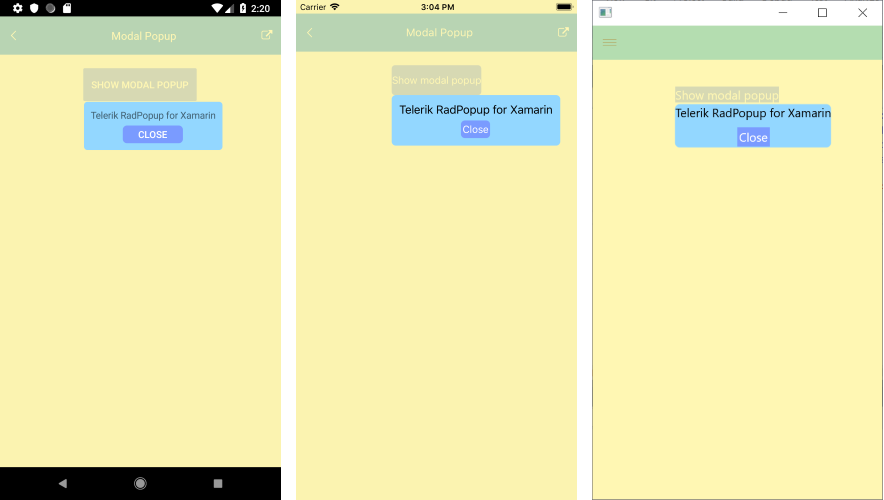
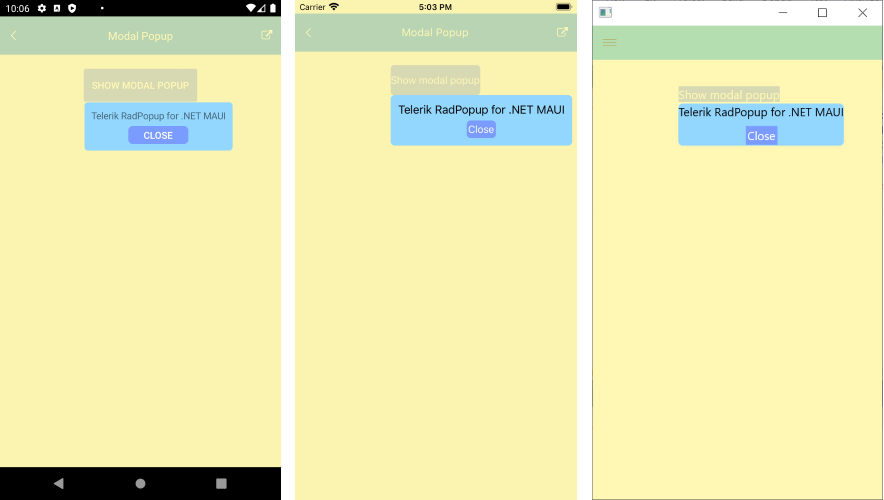
Updated screenshots

diff --git a/controls/popup/popup-key-features.md b/controls/popup/popup-key-features.md
@@ -120,7 +120,7 @@ Below is an example on how you could apply OutsideBackgroundColor to a modal pop
                         <RowDefinition Height="Auto" />
                         <RowDefinition Height="26" />
                     </Grid.RowDefinitions>
-                    <Label Text="Telerik RadPopup for Xamarin" />
+                    <Label Text="Telerik RadPopup for .NET MAUI" />
                     <Button Grid.Row="1" 
                             Padding="2" 
                             HorizontalOptions="Center" 
@@ -187,7 +187,7 @@ RadPopup provides a few useful properties which will help you position it per yo
                 <Label  WidthRequest="160"
 						HeightRequest="200"
 						LineBreakMode="WordWrap"
-						Text="With Telerik Popup for Xamarin you could easily add modal popups to your application in order to draw attention to important information or receive user input." /> 
+						Text="With Telerik Popup for .NET MAUI you could easily add modal popups to your application in order to draw attention to important information or receive user input." /> 
             </telerikMauiControls:RadBorder>
         </telerikPrimitives:RadPopup>
     </telerikPrimitives:RadPopup.Popup>
